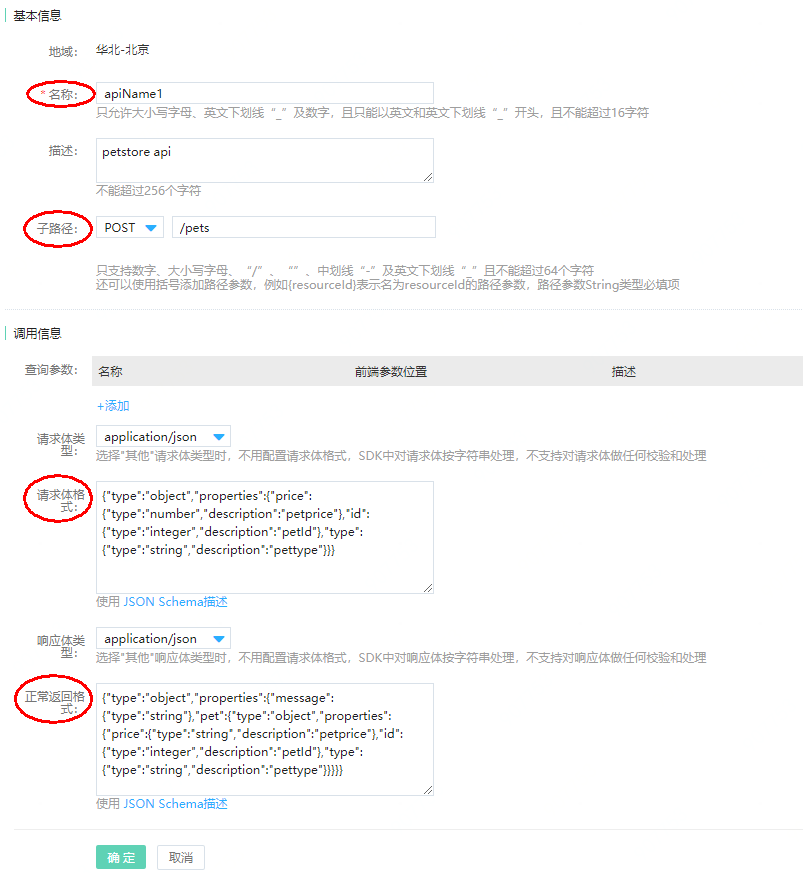
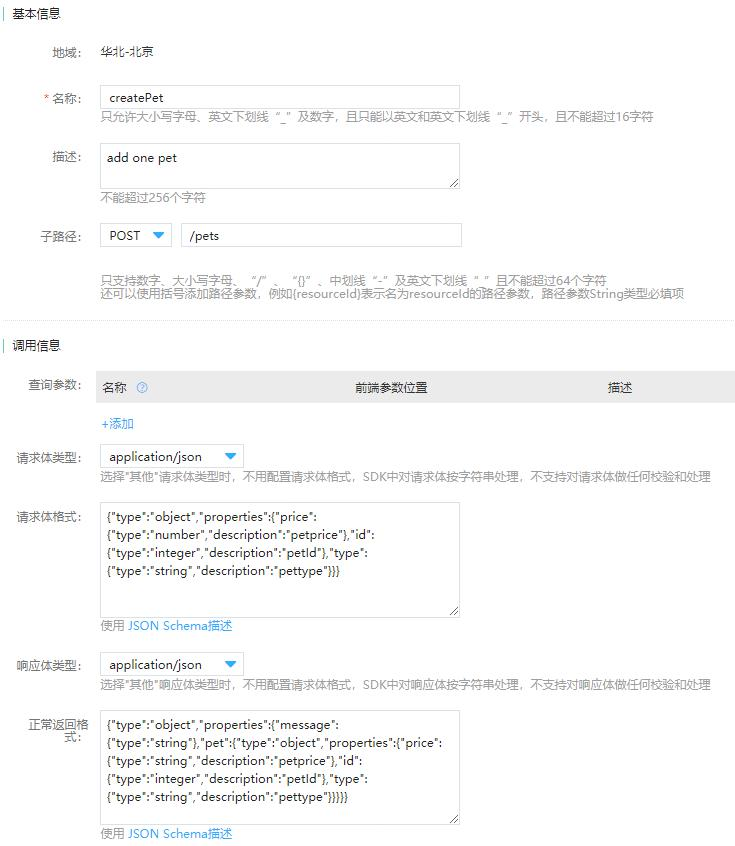
add pic url

diff --git a/documentation/Middleware/API-Gateway/Best-Practices/example_for_create_api.md b/documentation/Middleware/API-Gateway/Best-Practices/example_for_create_api.md
@@ -36,6 +36,8 @@
 
 ![导入API2](../../../../image/Internet-Middleware/API-Gateway/exap_create_api_2.png)
 
+![导入API2](../../../../image/Internet-Middleware/API-Gateway/exap_create_api_3.png)
+
 - 导入API：点击导入API，上传符合swagger2.0规范的yaml文件，点击确定，API列表界面会显示yaml文件中设定的API。([Yaml文件下载地址](../../../../image/Internet-Middleware/API-Gateway/PetStoreTest_Yaml.zip))
 
 ![导入API](../../../../image/Internet-Middleware/API-Gateway/exap_import_api_1.png)
